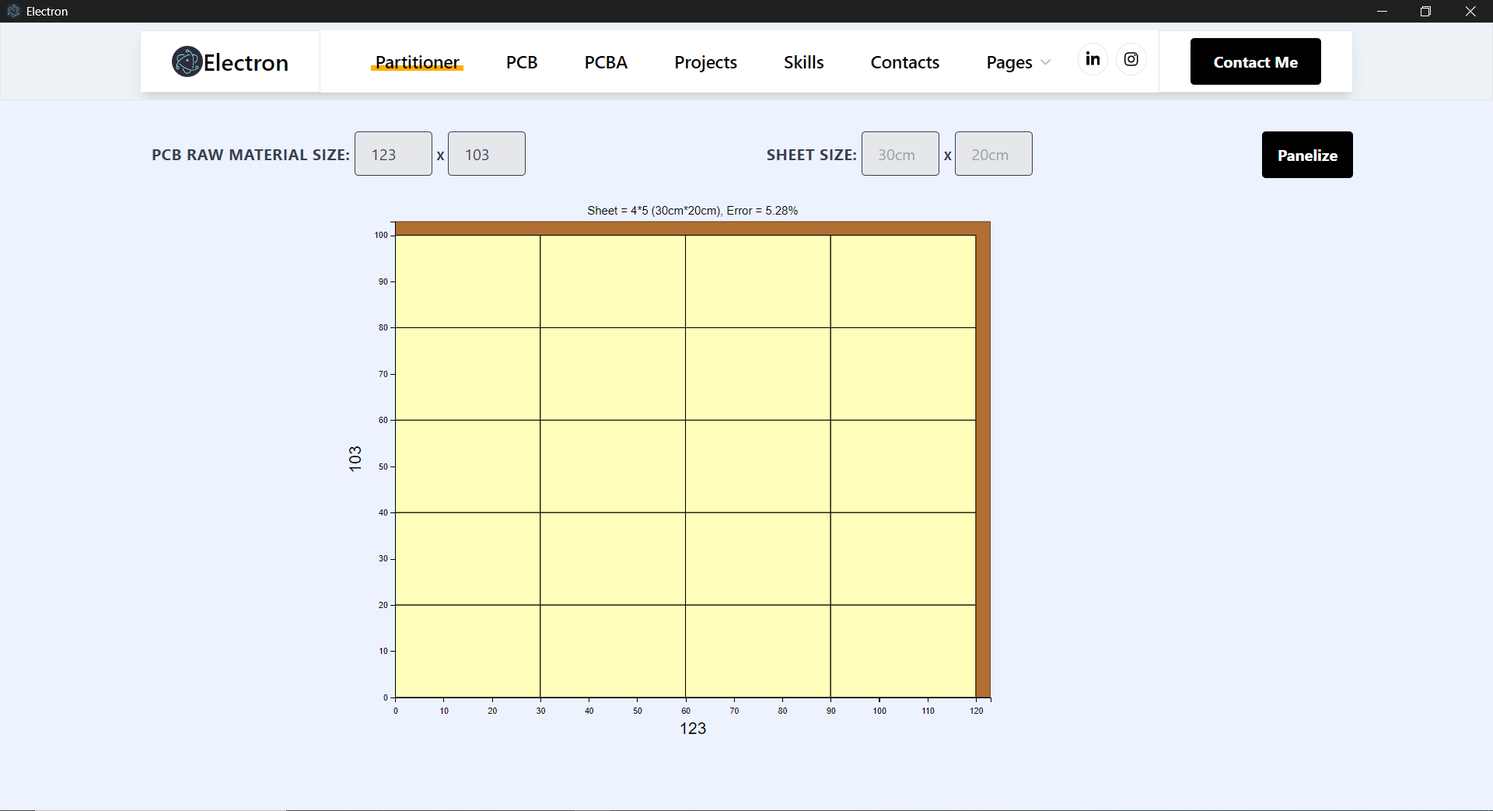
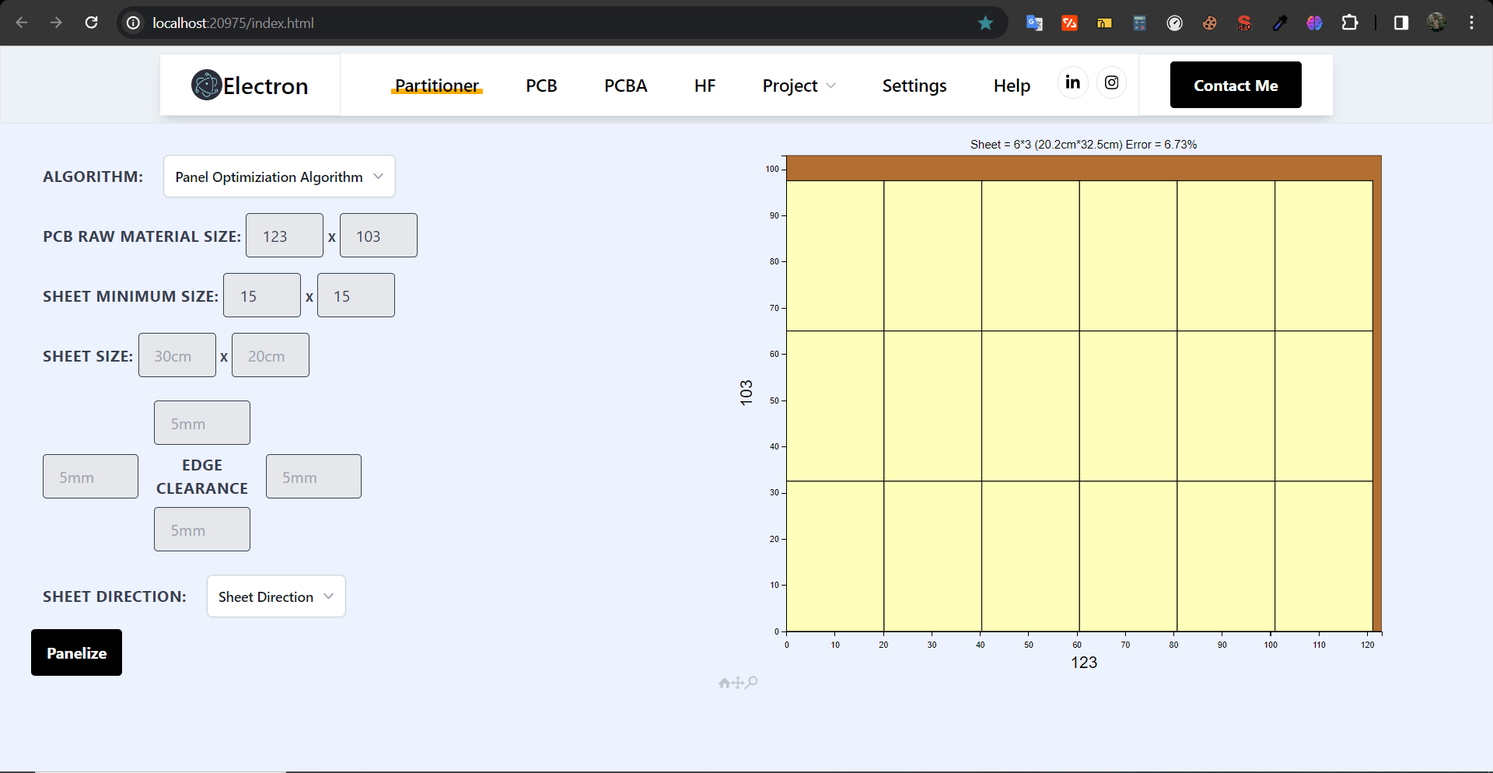
Change Readme for V011

diff --git a/eel/figure.html b/eel/figure.html
@@ -4,7 +4,7 @@
 
 </style>
 
-<div id="fig_el266815749730687526514138437"></div>
+<div id="fig_el422823026730818089411089649"></div>
 <script>
 function mpld3_load_lib(url, callback){
   var s = document.createElement('script');
@@ -19,7 +19,7 @@ if(typeof(mpld3) !== "undefined" && mpld3._mpld3IsLoaded){
    // already loaded: just create the figure
    !function(mpld3){
        
-       mpld3.draw_figure("fig_el266815749730687526514138437", {"width": 819.9999999999999, "height": 686.6666666666666, "axes": [{"bbox": [0.10323509485094853, 0.10525889967637547, 0.878472222222222, 0.8389158576051781], "xlim": [0.0, 123.0], "ylim": [0.0, 103.0], "xdomain": [0.0, 123.0], "ydomain": [0.0, 103.0], "xscale": "linear", "yscale": "linear", "axes": [{"position": "bottom", "nticks": 8, "tickvalues": null, "tickformat_formatter": "", "tickformat": null, "scale": "linear", "fontsize": 10.0, "grid": {"gridOn": false}, "visible": true}, {"position": "left", "nticks": 7, "tickvalues": null, "tickformat_formatter": "", "tickformat": null, "scale": "linear", "fontsize": 10.0, "grid": {"gridOn": false}, "visible": true}], "axesbg": "#FFFFFF", "axesbgalpha": null, "zoomable": true, "id": "el26681574975942720", "lines": [], "paths": [{"data": "data01", "xindex": 0, "yindex": 1, "coordinates": "data", "pathcodes": ["M", "L", "L", "L", "Z"], "id": "el26681574976082592", "dasharray": "none", "alpha": 1, "facecolor": "#B26F31", "edgecolor": "#000000", "edgewidth": 1.0, "zorder": 1}, {"data": "data02", "xindex": 0, "yindex": 1, "coordinates": "data", "pathcodes": ["M", "L", "L", "L", "Z"], "id": "el26681575014377472", "dasharray": "none", "alpha": 1, "facecolor": "#FFFFBB", "edgecolor": "#000000", "edgewidth": 1.0, "zorder": 1}, {"data": "data02", "xindex": 0, "yindex": 2, "coordinates": "data", "pathcodes": ["M", "L", "L", "L", "Z"], "id": "el26681575014377952", "dasharray": "none", "alpha": 1, "facecolor": "#FFFFBB", "edgecolor": "#000000", "edgewidth": 1.0, "zorder": 1}, {"data": "data02", "xindex": 0, "yindex": 3, "coordinates": "data", "pathcodes": ["M", "L", "L", "L", "Z"], "id": "el26681575014378432", "dasharray": "none", "alpha": 1, "facecolor": "#FFFFBB", "edgecolor": "#000000", "edgewidth": 1.0, "zorder": 1}, {"data": "data02", "xindex": 4, "yindex": 1, "coordinates": "data", "pathcodes": ["M", "L", "L", "L", "Z"], "id": "el26681575014378912", "dasharray": "none", "alpha": 1, "facecolor": "#FFFFBB", "edgecolor": "#000000", "edgewidth": 1.0, "zorder": 1}, {"data": "data02", "xindex": 4, "yindex": 2, "coordinates": "data", "pathcodes": ["M", "L", "L", "L", "Z"], "id": "el26681575014379392", "dasharray": "none", "alpha": 1, "facecolor": "#FFFFBB", "edgecolor": "#000000", "edgewidth": 1.0, "zorder": 1}, {"data": "data02", "xindex": 4, "yindex": 3, "coordinates": "data", "pathcodes": ["M", "L", "L", "L", "Z"], "id": "el26681575014379920", "dasharray": "none", "alpha": 1, "facecolor": "#FFFFBB", "edgecolor": "#000000", "edgewidth": 1.0, "zorder": 1}, {"data": "data02", "xindex": 5, "yindex": 1, "coordinates": "data", "pathcodes": ["M", "L", "L", "L", "Z"], "id": "el26681575014380400", "dasharray": "none", "alpha": 1, "facecolor": "#FFFFBB", "edgecolor": "#000000", "edgewidth": 1.0, "zorder": 1}, {"data": "data02", "xindex": 5, "yindex": 2, "coordinates": "data", "pathcodes": ["M", "L", "L", "L", "Z"], "id": "el26681575014380880", "dasharray": "none", "alpha": 1, "facecolor": "#FFFFBB", "edgecolor": "#000000", "edgewidth": 1.0, "zorder": 1}, {"data": "data02", "xindex": 5, "yindex": 3, "coordinates": "data", "pathcodes": ["M", "L", "L", "L", "Z"], "id": "el26681575014381360", "dasharray": "none", "alpha": 1, "facecolor": "#FFFFBB", "edgecolor": "#000000", "edgewidth": 1.0, "zorder": 1}, {"data": "data02", "xindex": 6, "yindex": 1, "coordinates": "data", "pathcodes": ["M", "L", "L", "L", "Z"], "id": "el26681575014381840", "dasharray": "none", "alpha": 1, "facecolor": "#FFFFBB", "edgecolor": "#000000", "edgewidth": 1.0, "zorder": 1}, {"data": "data02", "xindex": 6, "yindex": 2, "coordinates": "data", "pathcodes": ["M", "L", "L", "L", "Z"], "id": "el26681575014382320", "dasharray": "none", "alpha": 1, "facecolor": "#FFFFBB", "edgecolor": "#000000", "edgewidth": 1.0, "zorder": 1}, {"data": "data02", "xindex": 6, "yindex": 3, "coordinates": "data", "pathcodes": ["M", "L", "L", "L", "Z"], "id": "el26681575014382800", "dasharray": "none", "alpha": 1, "facecolor": "#FFFFBB", "edgecolor": "#000000", "edgewidth": 1.0, "zorder": 1}, {"data": "data02", "xindex": 7, "yindex": 1, "coordinates": "data", "pathcodes": ["M", "L", "L", "L", "Z"], "id": "el26681575014383280", "dasharray": "none", "alpha": 1, "facecolor": "#FFFFBB", "edgecolor": "#000000", "edgewidth": 1.0, "zorder": 1}, {"data": "data02", "xindex": 7, "yindex": 2, "coordinates": "data", "pathcodes": ["M", "L", "L", "L", "Z"], "id": "el26681575014383520", "dasharray": "none", "alpha": 1, "facecolor": "#FFFFBB", "edgecolor": "#000000", "edgewidth": 1.0, "zorder": 1}, {"data": "data02", "xindex": 7, "yindex": 3, "coordinates": "data", "pathcodes": ["M", "L", "L", "L", "Z"], "id": "el26681575050576560", "dasharray": "none", "alpha": 1, "facecolor": "#FFFFBB", "edgecolor": "#000000", "edgewidth": 1.0, "zorder": 1}], "markers": [], "texts": [{"text": "123", "position": [0.5, -0.05082457324717908], "coordinates": "axes", "h_anchor": "middle", "v_baseline": "hanging", "rotation": -0.0, "fontsize": 20.0, "color": "#000000", "alpha": 1, "zorder": 3, "id": "el26681574976087776"}, {"text": "103", "position": [-0.05782319483273888, 0.5], "coordinates": "axes", "h_anchor": "middle", "v_baseline": "auto", "rotation": -90.0, "fontsize": 20.0, "color": "#000000", "alpha": 1, "zorder": 3, "id": "el26681574976086912"}, {"text": "Sheet = 5*3 (24cm*34cm)___ Error = 3.39%", "position": [0.5, 1.0144661973189315], "coordinates": "axes", "h_anchor": "middle", "v_baseline": "auto", "rotation": -0.0, "fontsize": 14.0, "color": "#000000", "alpha": 1, "zorder": 3, "id": "el26681575014367296"}], "collections": [], "images": [], "sharex": [], "sharey": []}], "data": {"data01": [[0.0, 0.0], [123.0, 0.0], [123.0, 103.0], [0.0, 103.0]], "data02": [[0.0, 0.0, 34.0, 68.0, 24.0, 48.0, 72.0, 96.0], [24.0, 0.0, 34.0, 68.0, 48.0, 72.0, 96.0, 120.0], [24.0, 34.0, 68.0, 102.0, 48.0, 72.0, 96.0, 120.0], [0.0, 34.0, 68.0, 102.0, 24.0, 48.0, 72.0, 96.0]]}, "id": "el26681574973068752", "plugins": [{"type": "reset"}, {"type": "zoom", "button": true, "enabled": false}, {"type": "boxzoom", "button": true, "enabled": false}]});
+       mpld3.draw_figure("fig_el422823026730818089411089649", {"width": 819.9999999999999, "height": 686.6666666666666, "axes": [{"bbox": [0.10323509485094853, 0.10525889967637547, 0.8784722222222222, 0.8389158576051778], "xlim": [0.0, 123.0], "ylim": [0.0, 103.0], "xdomain": [0.0, 123.0], "ydomain": [0.0, 103.0], "xscale": "linear", "yscale": "linear", "axes": [{"position": "bottom", "nticks": 8, "tickvalues": null, "tickformat_formatter": "", "tickformat": null, "scale": "linear", "fontsize": 10.0, "grid": {"gridOn": false}, "visible": true}, {"position": "left", "nticks": 7, "tickvalues": null, "tickformat_formatter": "", "tickformat": null, "scale": "linear", "fontsize": 10.0, "grid": {"gridOn": false}, "visible": true}], "axesbg": "#FFFFFF", "axesbgalpha": null, "zoomable": true, "id": "el42282302675598736", "lines": [], "paths": [{"data": "data01", "xindex": 0, "yindex": 1, "coordinates": "data", "pathcodes": ["M", "L", "L", "L", "Z"], "id": "el42282302675641360", "dasharray": "none", "alpha": 1, "facecolor": "#B26F31", "edgecolor": "#000000", "edgewidth": 1.0, "zorder": 1}, {"data": "data02", "xindex": 0, "yindex": 1, "coordinates": "data", "pathcodes": ["M", "L", "L", "L", "Z"], "id": "el42282302713007600", "dasharray": "none", "alpha": 1, "facecolor": "#FFFFBB", "edgecolor": "#000000", "edgewidth": 1.0, "zorder": 1}, {"data": "data02", "xindex": 0, "yindex": 2, "coordinates": "data", "pathcodes": ["M", "L", "L", "L", "Z"], "id": "el42282302713008080", "dasharray": "none", "alpha": 1, "facecolor": "#FFFFBB", "edgecolor": "#000000", "edgewidth": 1.0, "zorder": 1}, {"data": "data02", "xindex": 0, "yindex": 3, "coordinates": "data", "pathcodes": ["M", "L", "L", "L", "Z"], "id": "el42282302713008560", "dasharray": "none", "alpha": 1, "facecolor": "#FFFFBB", "edgecolor": "#000000", "edgewidth": 1.0, "zorder": 1}, {"data": "data02", "xindex": 4, "yindex": 1, "coordinates": "data", "pathcodes": ["M", "L", "L", "L", "Z"], "id": "el42282302713009040", "dasharray": "none", "alpha": 1, "facecolor": "#FFFFBB", "edgecolor": "#000000", "edgewidth": 1.0, "zorder": 1}, {"data": "data02", "xindex": 4, "yindex": 2, "coordinates": "data", "pathcodes": ["M", "L", "L", "L", "Z"], "id": "el42282302713009520", "dasharray": "none", "alpha": 1, "facecolor": "#FFFFBB", "edgecolor": "#000000", "edgewidth": 1.0, "zorder": 1}, {"data": "data02", "xindex": 4, "yindex": 3, "coordinates": "data", "pathcodes": ["M", "L", "L", "L", "Z"], "id": "el42282302713010000", "dasharray": "none", "alpha": 1, "facecolor": "#FFFFBB", "edgecolor": "#000000", "edgewidth": 1.0, "zorder": 1}, {"data": "data02", "xindex": 5, "yindex": 1, "coordinates": "data", "pathcodes": ["M", "L", "L", "L", "Z"], "id": "el42282302713010480", "dasharray": "none", "alpha": 1, "facecolor": "#FFFFBB", "edgecolor": "#000000", "edgewidth": 1.0, "zorder": 1}, {"data": "data02", "xindex": 5, "yindex": 2, "coordinates": "data", "pathcodes": ["M", "L", "L", "L", "Z"], "id": "el42282302713010960", "dasharray": "none", "alpha": 1, "facecolor": "#FFFFBB", "edgecolor": "#000000", "edgewidth": 1.0, "zorder": 1}, {"data": "data02", "xindex": 5, "yindex": 3, "coordinates": "data", "pathcodes": ["M", "L", "L", "L", "Z"], "id": "el42282302713011440", "dasharray": "none", "alpha": 1, "facecolor": "#FFFFBB", "edgecolor": "#000000", "edgewidth": 1.0, "zorder": 1}, {"data": "data02", "xindex": 6, "yindex": 1, "coordinates": "data", "pathcodes": ["M", "L", "L", "L", "Z"], "id": "el42282302713011920", "dasharray": "none", "alpha": 1, "facecolor": "#FFFFBB", "edgecolor": "#000000", "edgewidth": 1.0, "zorder": 1}, {"data": "data02", "xindex": 6, "yindex": 2, "coordinates": "data", "pathcodes": ["M", "L", "L", "L", "Z"], "id": "el42282302713012400", "dasharray": "none", "alpha": 1, "facecolor": "#FFFFBB", "edgecolor": "#000000", "edgewidth": 1.0, "zorder": 1}, {"data": "data02", "xindex": 6, "yindex": 3, "coordinates": "data", "pathcodes": ["M", "L", "L", "L", "Z"], "id": "el42282302713012880", "dasharray": "none", "alpha": 1, "facecolor": "#FFFFBB", "edgecolor": "#000000", "edgewidth": 1.0, "zorder": 1}, {"data": "data02", "xindex": 7, "yindex": 1, "coordinates": "data", "pathcodes": ["M", "L", "L", "L", "Z"], "id": "el42282302713013360", "dasharray": "none", "alpha": 1, "facecolor": "#FFFFBB", "edgecolor": "#000000", "edgewidth": 1.0, "zorder": 1}, {"data": "data02", "xindex": 7, "yindex": 2, "coordinates": "data", "pathcodes": ["M", "L", "L", "L", "Z"], "id": "el42282302713013840", "dasharray": "none", "alpha": 1, "facecolor": "#FFFFBB", "edgecolor": "#000000", "edgewidth": 1.0, "zorder": 1}, {"data": "data02", "xindex": 7, "yindex": 3, "coordinates": "data", "pathcodes": ["M", "L", "L", "L", "Z"], "id": "el42282302713014320", "dasharray": "none", "alpha": 1, "facecolor": "#FFFFBB", "edgecolor": "#000000", "edgewidth": 1.0, "zorder": 1}], "markers": [], "texts": [{"text": "123", "position": [0.5, -0.050824573247179095], "coordinates": "axes", "h_anchor": "middle", "v_baseline": "hanging", "rotation": -0.0, "fontsize": 20.0, "color": "#000000", "alpha": 1, "zorder": 3, "id": "el42282302675634016"}, {"text": "103", "position": [-0.05782319483273887, 0.5], "coordinates": "axes", "h_anchor": "middle", "v_baseline": "auto", "rotation": -90.0, "fontsize": 20.0, "color": "#000000", "alpha": 1, "zorder": 3, "id": "el42282302675635024"}, {"text": "#Sheet = 5*3 (21cm*31cm)___ #Error = 22.92%", "position": [0.5, 1.0144661973189315], "coordinates": "axes", "h_anchor": "middle", "v_baseline": "auto", "rotation": -0.0, "fontsize": 14.0, "color": "#000000", "alpha": 1, "zorder": 3, "id": "el42282302675642992"}], "collections": [], "images": [], "sharex": [], "sharey": []}], "data": {"data01": [[0.0, 0.0], [123.0, 0.0], [123.0, 103.0], [0.0, 103.0]], "data02": [[0.0, 0.0, 31.0, 62.0, 21.0, 42.0, 63.0, 84.0], [21.0, 0.0, 31.0, 62.0, 42.0, 63.0, 84.0, 105.0], [21.0, 31.0, 62.0, 93.0, 42.0, 63.0, 84.0, 105.0], [0.0, 31.0, 62.0, 93.0, 21.0, 42.0, 63.0, 84.0]]}, "id": "el42282302673081808", "plugins": [{"type": "reset"}, {"type": "zoom", "button": true, "enabled": false}, {"type": "boxzoom", "button": true, "enabled": false}]});
    }(mpld3);
 }else if(typeof define === "function" && define.amd){
    // require.js is available: use it to load d3/mpld3
@@ -28,7 +28,7 @@ if(typeof(mpld3) !== "undefined" && mpld3._mpld3IsLoaded){
       window.d3 = d3;
       mpld3_load_lib("https://mpld3.github.io/js/mpld3.v0.5.9.js", function(){
          
-         mpld3.draw_figure("fig_el266815749730687526514138437", {"width": 819.9999999999999, "height": 686.6666666666666, "axes": [{"bbox": [0.10323509485094853, 0.10525889967637547, 0.878472222222222, 0.8389158576051781], "xlim": [0.0, 123.0], "ylim": [0.0, 103.0], "xdomain": [0.0, 123.0], "ydomain": [0.0, 103.0], "xscale": "linear", "yscale": "linear", "axes": [{"position": "bottom", "nticks": 8, "tickvalues": null, "tickformat_formatter": "", "tickformat": null, "scale": "linear", "fontsize": 10.0, "grid": {"gridOn": false}, "visible": true}, {"position": "left", "nticks": 7, "tickvalues": null, "tickformat_formatter": "", "tickformat": null, "scale": "linear", "fontsize": 10.0, "grid": {"gridOn": false}, "visible": true}], "axesbg": "#FFFFFF", "axesbgalpha": null, "zoomable": true, "id": "el26681574975942720", "lines": [], "paths": [{"data": "data01", "xindex": 0, "yindex": 1, "coordinates": "data", "pathcodes": ["M", "L", "L", "L", "Z"], "id": "el26681574976082592", "dasharray": "none", "alpha": 1, "facecolor": "#B26F31", "edgecolor": "#000000", "edgewidth": 1.0, "zorder": 1}, {"data": "data02", "xindex": 0, "yindex": 1, "coordinates": "data", "pathcodes": ["M", "L", "L", "L", "Z"], "id": "el26681575014377472", "dasharray": "none", "alpha": 1, "facecolor": "#FFFFBB", "edgecolor": "#000000", "edgewidth": 1.0, "zorder": 1}, {"data": "data02", "xindex": 0, "yindex": 2, "coordinates": "data", "pathcodes": ["M", "L", "L", "L", "Z"], "id": "el26681575014377952", "dasharray": "none", "alpha": 1, "facecolor": "#FFFFBB", "edgecolor": "#000000", "edgewidth": 1.0, "zorder": 1}, {"data": "data02", "xindex": 0, "yindex": 3, "coordinates": "data", "pathcodes": ["M", "L", "L", "L", "Z"], "id": "el26681575014378432", "dasharray": "none", "alpha": 1, "facecolor": "#FFFFBB", "edgecolor": "#000000", "edgewidth": 1.0, "zorder": 1}, {"data": "data02", "xindex": 4, "yindex": 1, "coordinates": "data", "pathcodes": ["M", "L", "L", "L", "Z"], "id": "el26681575014378912", "dasharray": "none", "alpha": 1, "facecolor": "#FFFFBB", "edgecolor": "#000000", "edgewidth": 1.0, "zorder": 1}, {"data": "data02", "xindex": 4, "yindex": 2, "coordinates": "data", "pathcodes": ["M", "L", "L", "L", "Z"], "id": "el26681575014379392", "dasharray": "none", "alpha": 1, "facecolor": "#FFFFBB", "edgecolor": "#000000", "edgewidth": 1.0, "zorder": 1}, {"data": "data02", "xindex": 4, "yindex": 3, "coordinates": "data", "pathcodes": ["M", "L", "L", "L", "Z"], "id": "el26681575014379920", "dasharray": "none", "alpha": 1, "facecolor": "#FFFFBB", "edgecolor": "#000000", "edgewidth": 1.0, "zorder": 1}, {"data": "data02", "xindex": 5, "yindex": 1, "coordinates": "data", "pathcodes": ["M", "L", "L", "L", "Z"], "id": "el26681575014380400", "dasharray": "none", "alpha": 1, "facecolor": "#FFFFBB", "edgecolor": "#000000", "edgewidth": 1.0, "zorder": 1}, {"data": "data02", "xindex": 5, "yindex": 2, "coordinates": "data", "pathcodes": ["M", "L", "L", "L", "Z"], "id": "el26681575014380880", "dasharray": "none", "alpha": 1, "facecolor": "#FFFFBB", "edgecolor": "#000000", "edgewidth": 1.0, "zorder": 1}, {"data": "data02", "xindex": 5, "yindex": 3, "coordinates": "data", "pathcodes": ["M", "L", "L", "L", "Z"], "id": "el26681575014381360", "dasharray": "none", "alpha": 1, "facecolor": "#FFFFBB", "edgecolor": "#000000", "edgewidth": 1.0, "zorder": 1}, {"data": "data02", "xindex": 6, "yindex": 1, "coordinates": "data", "pathcodes": ["M", "L", "L", "L", "Z"], "id": "el26681575014381840", "dasharray": "none", "alpha": 1, "facecolor": "#FFFFBB", "edgecolor": "#000000", "edgewidth": 1.0, "zorder": 1}, {"data": "data02", "xindex": 6, "yindex": 2, "coordinates": "data", "pathcodes": ["M", "L", "L", "L", "Z"], "id": "el26681575014382320", "dasharray": "none", "alpha": 1, "facecolor": "#FFFFBB", "edgecolor": "#000000", "edgewidth": 1.0, "zorder": 1}, {"data": "data02", "xindex": 6, "yindex": 3, "coordinates": "data", "pathcodes": ["M", "L", "L", "L", "Z"], "id": "el26681575014382800", "dasharray": "none", "alpha": 1, "facecolor": "#FFFFBB", "edgecolor": "#000000", "edgewidth": 1.0, "zorder": 1}, {"data": "data02", "xindex": 7, "yindex": 1, "coordinates": "data", "pathcodes": ["M", "L", "L", "L", "Z"], "id": "el26681575014383280", "dasharray": "none", "alpha": 1, "facecolor": "#FFFFBB", "edgecolor": "#000000", "edgewidth": 1.0, "zorder": 1}, {"data": "data02", "xindex": 7, "yindex": 2, "coordinates": "data", "pathcodes": ["M", "L", "L", "L", "Z"], "id": "el26681575014383520", "dasharray": "none", "alpha": 1, "facecolor": "#FFFFBB", "edgecolor": "#000000", "edgewidth": 1.0, "zorder": 1}, {"data": "data02", "xindex": 7, "yindex": 3, "coordinates": "data", "pathcodes": ["M", "L", "L", "L", "Z"], "id": "el26681575050576560", "dasharray": "none", "alpha": 1, "facecolor": "#FFFFBB", "edgecolor": "#000000", "edgewidth": 1.0, "zorder": 1}], "markers": [], "texts": [{"text": "123", "position": [0.5, -0.05082457324717908], "coordinates": "axes", "h_anchor": "middle", "v_baseline": "hanging", "rotation": -0.0, "fontsize": 20.0, "color": "#000000", "alpha": 1, "zorder": 3, "id": "el26681574976087776"}, {"text": "103", "position": [-0.05782319483273888, 0.5], "coordinates": "axes", "h_anchor": "middle", "v_baseline": "auto", "rotation": -90.0, "fontsize": 20.0, "color": "#000000", "alpha": 1, "zorder": 3, "id": "el26681574976086912"}, {"text": "Sheet = 5*3 (24cm*34cm)___ Error = 3.39%", "position": [0.5, 1.0144661973189315], "coordinates": "axes", "h_anchor": "middle", "v_baseline": "auto", "rotation": -0.0, "fontsize": 14.0, "color": "#000000", "alpha": 1, "zorder": 3, "id": "el26681575014367296"}], "collections": [], "images": [], "sharex": [], "sharey": []}], "data": {"data01": [[0.0, 0.0], [123.0, 0.0], [123.0, 103.0], [0.0, 103.0]], "data02": [[0.0, 0.0, 34.0, 68.0, 24.0, 48.0, 72.0, 96.0], [24.0, 0.0, 34.0, 68.0, 48.0, 72.0, 96.0, 120.0], [24.0, 34.0, 68.0, 102.0, 48.0, 72.0, 96.0, 120.0], [0.0, 34.0, 68.0, 102.0, 24.0, 48.0, 72.0, 96.0]]}, "id": "el26681574973068752", "plugins": [{"type": "reset"}, {"type": "zoom", "button": true, "enabled": false}, {"type": "boxzoom", "button": true, "enabled": false}]});
+         mpld3.draw_figure("fig_el422823026730818089411089649", {"width": 819.9999999999999, "height": 686.6666666666666, "axes": [{"bbox": [0.10323509485094853, 0.10525889967637547, 0.8784722222222222, 0.8389158576051778], "xlim": [0.0, 123.0], "ylim": [0.0, 103.0], "xdomain": [0.0, 123.0], "ydomain": [0.0, 103.0], "xscale": "linear", "yscale": "linear", "axes": [{"position": "bottom", "nticks": 8, "tickvalues": null, "tickformat_formatter": "", "tickformat": null, "scale": "linear", "fontsize": 10.0, "grid": {"gridOn": false}, "visible": true}, {"position": "left", "nticks": 7, "tickvalues": null, "tickformat_formatter": "", "tickformat": null, "scale": "linear", "fontsize": 10.0, "grid": {"gridOn": false}, "visible": true}], "axesbg": "#FFFFFF", "axesbgalpha": null, "zoomable": true, "id": "el42282302675598736", "lines": [], "paths": [{"data": "data01", "xindex": 0, "yindex": 1, "coordinates": "data", "pathcodes": ["M", "L", "L", "L", "Z"], "id": "el42282302675641360", "dasharray": "none", "alpha": 1, "facecolor": "#B26F31", "edgecolor": "#000000", "edgewidth": 1.0, "zorder": 1}, {"data": "data02", "xindex": 0, "yindex": 1, "coordinates": "data", "pathcodes": ["M", "L", "L", "L", "Z"], "id": "el42282302713007600", "dasharray": "none", "alpha": 1, "facecolor": "#FFFFBB", "edgecolor": "#000000", "edgewidth": 1.0, "zorder": 1}, {"data": "data02", "xindex": 0, "yindex": 2, "coordinates": "data", "pathcodes": ["M", "L", "L", "L", "Z"], "id": "el42282302713008080", "dasharray": "none", "alpha": 1, "facecolor": "#FFFFBB", "edgecolor": "#000000", "edgewidth": 1.0, "zorder": 1}, {"data": "data02", "xindex": 0, "yindex": 3, "coordinates": "data", "pathcodes": ["M", "L", "L", "L", "Z"], "id": "el42282302713008560", "dasharray": "none", "alpha": 1, "facecolor": "#FFFFBB", "edgecolor": "#000000", "edgewidth": 1.0, "zorder": 1}, {"data": "data02", "xindex": 4, "yindex": 1, "coordinates": "data", "pathcodes": ["M", "L", "L", "L", "Z"], "id": "el42282302713009040", "dasharray": "none", "alpha": 1, "facecolor": "#FFFFBB", "edgecolor": "#000000", "edgewidth": 1.0, "zorder": 1}, {"data": "data02", "xindex": 4, "yindex": 2, "coordinates": "data", "pathcodes": ["M", "L", "L", "L", "Z"], "id": "el42282302713009520", "dasharray": "none", "alpha": 1, "facecolor": "#FFFFBB", "edgecolor": "#000000", "edgewidth": 1.0, "zorder": 1}, {"data": "data02", "xindex": 4, "yindex": 3, "coordinates": "data", "pathcodes": ["M", "L", "L", "L", "Z"], "id": "el42282302713010000", "dasharray": "none", "alpha": 1, "facecolor": "#FFFFBB", "edgecolor": "#000000", "edgewidth": 1.0, "zorder": 1}, {"data": "data02", "xindex": 5, "yindex": 1, "coordinates": "data", "pathcodes": ["M", "L", "L", "L", "Z"], "id": "el42282302713010480", "dasharray": "none", "alpha": 1, "facecolor": "#FFFFBB", "edgecolor": "#000000", "edgewidth": 1.0, "zorder": 1}, {"data": "data02", "xindex": 5, "yindex": 2, "coordinates": "data", "pathcodes": ["M", "L", "L", "L", "Z"], "id": "el42282302713010960", "dasharray": "none", "alpha": 1, "facecolor": "#FFFFBB", "edgecolor": "#000000", "edgewidth": 1.0, "zorder": 1}, {"data": "data02", "xindex": 5, "yindex": 3, "coordinates": "data", "pathcodes": ["M", "L", "L", "L", "Z"], "id": "el42282302713011440", "dasharray": "none", "alpha": 1, "facecolor": "#FFFFBB", "edgecolor": "#000000", "edgewidth": 1.0, "zorder": 1}, {"data": "data02", "xindex": 6, "yindex": 1, "coordinates": "data", "pathcodes": ["M", "L", "L", "L", "Z"], "id": "el42282302713011920", "dasharray": "none", "alpha": 1, "facecolor": "#FFFFBB", "edgecolor": "#000000", "edgewidth": 1.0, "zorder": 1}, {"data": "data02", "xindex": 6, "yindex": 2, "coordinates": "data", "pathcodes": ["M", "L", "L", "L", "Z"], "id": "el42282302713012400", "dasharray": "none", "alpha": 1, "facecolor": "#FFFFBB", "edgecolor": "#000000", "edgewidth": 1.0, "zorder": 1}, {"data": "data02", "xindex": 6, "yindex": 3, "coordinates": "data", "pathcodes": ["M", "L", "L", "L", "Z"], "id": "el42282302713012880", "dasharray": "none", "alpha": 1, "facecolor": "#FFFFBB", "edgecolor": "#000000", "edgewidth": 1.0, "zorder": 1}, {"data": "data02", "xindex": 7, "yindex": 1, "coordinates": "data", "pathcodes": ["M", "L", "L", "L", "Z"], "id": "el42282302713013360", "dasharray": "none", "alpha": 1, "facecolor": "#FFFFBB", "edgecolor": "#000000", "edgewidth": 1.0, "zorder": 1}, {"data": "data02", "xindex": 7, "yindex": 2, "coordinates": "data", "pathcodes": ["M", "L", "L", "L", "Z"], "id": "el42282302713013840", "dasharray": "none", "alpha": 1, "facecolor": "#FFFFBB", "edgecolor": "#000000", "edgewidth": 1.0, "zorder": 1}, {"data": "data02", "xindex": 7, "yindex": 3, "coordinates": "data", "pathcodes": ["M", "L", "L", "L", "Z"], "id": "el42282302713014320", "dasharray": "none", "alpha": 1, "facecolor": "#FFFFBB", "edgecolor": "#000000", "edgewidth": 1.0, "zorder": 1}], "markers": [], "texts": [{"text": "123", "position": [0.5, -0.050824573247179095], "coordinates": "axes", "h_anchor": "middle", "v_baseline": "hanging", "rotation": -0.0, "fontsize": 20.0, "color": "#000000", "alpha": 1, "zorder": 3, "id": "el42282302675634016"}, {"text": "103", "position": [-0.05782319483273887, 0.5], "coordinates": "axes", "h_anchor": "middle", "v_baseline": "auto", "rotation": -90.0, "fontsize": 20.0, "color": "#000000", "alpha": 1, "zorder": 3, "id": "el42282302675635024"}, {"text": "#Sheet = 5*3 (21cm*31cm)___ #Error = 22.92%", "position": [0.5, 1.0144661973189315], "coordinates": "axes", "h_anchor": "middle", "v_baseline": "auto", "rotation": -0.0, "fontsize": 14.0, "color": "#000000", "alpha": 1, "zorder": 3, "id": "el42282302675642992"}], "collections": [], "images": [], "sharex": [], "sharey": []}], "data": {"data01": [[0.0, 0.0], [123.0, 0.0], [123.0, 103.0], [0.0, 103.0]], "data02": [[0.0, 0.0, 31.0, 62.0, 21.0, 42.0, 63.0, 84.0], [21.0, 0.0, 31.0, 62.0, 42.0, 63.0, 84.0, 105.0], [21.0, 31.0, 62.0, 93.0, 42.0, 63.0, 84.0, 105.0], [0.0, 31.0, 62.0, 93.0, 21.0, 42.0, 63.0, 84.0]]}, "id": "el42282302673081808", "plugins": [{"type": "reset"}, {"type": "zoom", "button": true, "enabled": false}, {"type": "boxzoom", "button": true, "enabled": false}]});
       });
     });
 }else{
@@ -36,7 +36,7 @@ if(typeof(mpld3) !== "undefined" && mpld3._mpld3IsLoaded){
     mpld3_load_lib("https://d3js.org/d3.v5.js", function(){
          mpld3_load_lib("https://mpld3.github.io/js/mpld3.v0.5.9.js", function(){
                  
-                 mpld3.draw_figure("fig_el266815749730687526514138437", {"width": 819.9999999999999, "height": 686.6666666666666, "axes": [{"bbox": [0.10323509485094853, 0.10525889967637547, 0.878472222222222, 0.8389158576051781], "xlim": [0.0, 123.0], "ylim": [0.0, 103.0], "xdomain": [0.0, 123.0], "ydomain": [0.0, 103.0], "xscale": "linear", "yscale": "linear", "axes": [{"position": "bottom", "nticks": 8, "tickvalues": null, "tickformat_formatter": "", "tickformat": null, "scale": "linear", "fontsize": 10.0, "grid": {"gridOn": false}, "visible": true}, {"position": "left", "nticks": 7, "tickvalues": null, "tickformat_formatter": "", "tickformat": null, "scale": "linear", "fontsize": 10.0, "grid": {"gridOn": false}, "visible": true}], "axesbg": "#FFFFFF", "axesbgalpha": null, "zoomable": true, "id": "el26681574975942720", "lines": [], "paths": [{"data": "data01", "xindex": 0, "yindex": 1, "coordinates": "data", "pathcodes": ["M", "L", "L", "L", "Z"], "id": "el26681574976082592", "dasharray": "none", "alpha": 1, "facecolor": "#B26F31", "edgecolor": "#000000", "edgewidth": 1.0, "zorder": 1}, {"data": "data02", "xindex": 0, "yindex": 1, "coordinates": "data", "pathcodes": ["M", "L", "L", "L", "Z"], "id": "el26681575014377472", "dasharray": "none", "alpha": 1, "facecolor": "#FFFFBB", "edgecolor": "#000000", "edgewidth": 1.0, "zorder": 1}, {"data": "data02", "xindex": 0, "yindex": 2, "coordinates": "data", "pathcodes": ["M", "L", "L", "L", "Z"], "id": "el26681575014377952", "dasharray": "none", "alpha": 1, "facecolor": "#FFFFBB", "edgecolor": "#000000", "edgewidth": 1.0, "zorder": 1}, {"data": "data02", "xindex": 0, "yindex": 3, "coordinates": "data", "pathcodes": ["M", "L", "L", "L", "Z"], "id": "el26681575014378432", "dasharray": "none", "alpha": 1, "facecolor": "#FFFFBB", "edgecolor": "#000000", "edgewidth": 1.0, "zorder": 1}, {"data": "data02", "xindex": 4, "yindex": 1, "coordinates": "data", "pathcodes": ["M", "L", "L", "L", "Z"], "id": "el26681575014378912", "dasharray": "none", "alpha": 1, "facecolor": "#FFFFBB", "edgecolor": "#000000", "edgewidth": 1.0, "zorder": 1}, {"data": "data02", "xindex": 4, "yindex": 2, "coordinates": "data", "pathcodes": ["M", "L", "L", "L", "Z"], "id": "el26681575014379392", "dasharray": "none", "alpha": 1, "facecolor": "#FFFFBB", "edgecolor": "#000000", "edgewidth": 1.0, "zorder": 1}, {"data": "data02", "xindex": 4, "yindex": 3, "coordinates": "data", "pathcodes": ["M", "L", "L", "L", "Z"], "id": "el26681575014379920", "dasharray": "none", "alpha": 1, "facecolor": "#FFFFBB", "edgecolor": "#000000", "edgewidth": 1.0, "zorder": 1}, {"data": "data02", "xindex": 5, "yindex": 1, "coordinates": "data", "pathcodes": ["M", "L", "L", "L", "Z"], "id": "el26681575014380400", "dasharray": "none", "alpha": 1, "facecolor": "#FFFFBB", "edgecolor": "#000000", "edgewidth": 1.0, "zorder": 1}, {"data": "data02", "xindex": 5, "yindex": 2, "coordinates": "data", "pathcodes": ["M", "L", "L", "L", "Z"], "id": "el26681575014380880", "dasharray": "none", "alpha": 1, "facecolor": "#FFFFBB", "edgecolor": "#000000", "edgewidth": 1.0, "zorder": 1}, {"data": "data02", "xindex": 5, "yindex": 3, "coordinates": "data", "pathcodes": ["M", "L", "L", "L", "Z"], "id": "el26681575014381360", "dasharray": "none", "alpha": 1, "facecolor": "#FFFFBB", "edgecolor": "#000000", "edgewidth": 1.0, "zorder": 1}, {"data": "data02", "xindex": 6, "yindex": 1, "coordinates": "data", "pathcodes": ["M", "L", "L", "L", "Z"], "id": "el26681575014381840", "dasharray": "none", "alpha": 1, "facecolor": "#FFFFBB", "edgecolor": "#000000", "edgewidth": 1.0, "zorder": 1}, {"data": "data02", "xindex": 6, "yindex": 2, "coordinates": "data", "pathcodes": ["M", "L", "L", "L", "Z"], "id": "el26681575014382320", "dasharray": "none", "alpha": 1, "facecolor": "#FFFFBB", "edgecolor": "#000000", "edgewidth": 1.0, "zorder": 1}, {"data": "data02", "xindex": 6, "yindex": 3, "coordinates": "data", "pathcodes": ["M", "L", "L", "L", "Z"], "id": "el26681575014382800", "dasharray": "none", "alpha": 1, "facecolor": "#FFFFBB", "edgecolor": "#000000", "edgewidth": 1.0, "zorder": 1}, {"data": "data02", "xindex": 7, "yindex": 1, "coordinates": "data", "pathcodes": ["M", "L", "L", "L", "Z"], "id": "el26681575014383280", "dasharray": "none", "alpha": 1, "facecolor": "#FFFFBB", "edgecolor": "#000000", "edgewidth": 1.0, "zorder": 1}, {"data": "data02", "xindex": 7, "yindex": 2, "coordinates": "data", "pathcodes": ["M", "L", "L", "L", "Z"], "id": "el26681575014383520", "dasharray": "none", "alpha": 1, "facecolor": "#FFFFBB", "edgecolor": "#000000", "edgewidth": 1.0, "zorder": 1}, {"data": "data02", "xindex": 7, "yindex": 3, "coordinates": "data", "pathcodes": ["M", "L", "L", "L", "Z"], "id": "el26681575050576560", "dasharray": "none", "alpha": 1, "facecolor": "#FFFFBB", "edgecolor": "#000000", "edgewidth": 1.0, "zorder": 1}], "markers": [], "texts": [{"text": "123", "position": [0.5, -0.05082457324717908], "coordinates": "axes", "h_anchor": "middle", "v_baseline": "hanging", "rotation": -0.0, "fontsize": 20.0, "color": "#000000", "alpha": 1, "zorder": 3, "id": "el26681574976087776"}, {"text": "103", "position": [-0.05782319483273888, 0.5], "coordinates": "axes", "h_anchor": "middle", "v_baseline": "auto", "rotation": -90.0, "fontsize": 20.0, "color": "#000000", "alpha": 1, "zorder": 3, "id": "el26681574976086912"}, {"text": "Sheet = 5*3 (24cm*34cm)___ Error = 3.39%", "position": [0.5, 1.0144661973189315], "coordinates": "axes", "h_anchor": "middle", "v_baseline": "auto", "rotation": -0.0, "fontsize": 14.0, "color": "#000000", "alpha": 1, "zorder": 3, "id": "el26681575014367296"}], "collections": [], "images": [], "sharex": [], "sharey": []}], "data": {"data01": [[0.0, 0.0], [123.0, 0.0], [123.0, 103.0], [0.0, 103.0]], "data02": [[0.0, 0.0, 34.0, 68.0, 24.0, 48.0, 72.0, 96.0], [24.0, 0.0, 34.0, 68.0, 48.0, 72.0, 96.0, 120.0], [24.0, 34.0, 68.0, 102.0, 48.0, 72.0, 96.0, 120.0], [0.0, 34.0, 68.0, 102.0, 24.0, 48.0, 72.0, 96.0]]}, "id": "el26681574973068752", "plugins": [{"type": "reset"}, {"type": "zoom", "button": true, "enabled": false}, {"type": "boxzoom", "button": true, "enabled": false}]});
+                 mpld3.draw_figure("fig_el422823026730818089411089649", {"width": 819.9999999999999, "height": 686.6666666666666, "axes": [{"bbox": [0.10323509485094853, 0.10525889967637547, 0.8784722222222222, 0.8389158576051778], "xlim": [0.0, 123.0], "ylim": [0.0, 103.0], "xdomain": [0.0, 123.0], "ydomain": [0.0, 103.0], "xscale": "linear", "yscale": "linear", "axes": [{"position": "bottom", "nticks": 8, "tickvalues": null, "tickformat_formatter": "", "tickformat": null, "scale": "linear", "fontsize": 10.0, "grid": {"gridOn": false}, "visible": true}, {"position": "left", "nticks": 7, "tickvalues": null, "tickformat_formatter": "", "tickformat": null, "scale": "linear", "fontsize": 10.0, "grid": {"gridOn": false}, "visible": true}], "axesbg": "#FFFFFF", "axesbgalpha": null, "zoomable": true, "id": "el42282302675598736", "lines": [], "paths": [{"data": "data01", "xindex": 0, "yindex": 1, "coordinates": "data", "pathcodes": ["M", "L", "L", "L", "Z"], "id": "el42282302675641360", "dasharray": "none", "alpha": 1, "facecolor": "#B26F31", "edgecolor": "#000000", "edgewidth": 1.0, "zorder": 1}, {"data": "data02", "xindex": 0, "yindex": 1, "coordinates": "data", "pathcodes": ["M", "L", "L", "L", "Z"], "id": "el42282302713007600", "dasharray": "none", "alpha": 1, "facecolor": "#FFFFBB", "edgecolor": "#000000", "edgewidth": 1.0, "zorder": 1}, {"data": "data02", "xindex": 0, "yindex": 2, "coordinates": "data", "pathcodes": ["M", "L", "L", "L", "Z"], "id": "el42282302713008080", "dasharray": "none", "alpha": 1, "facecolor": "#FFFFBB", "edgecolor": "#000000", "edgewidth": 1.0, "zorder": 1}, {"data": "data02", "xindex": 0, "yindex": 3, "coordinates": "data", "pathcodes": ["M", "L", "L", "L", "Z"], "id": "el42282302713008560", "dasharray": "none", "alpha": 1, "facecolor": "#FFFFBB", "edgecolor": "#000000", "edgewidth": 1.0, "zorder": 1}, {"data": "data02", "xindex": 4, "yindex": 1, "coordinates": "data", "pathcodes": ["M", "L", "L", "L", "Z"], "id": "el42282302713009040", "dasharray": "none", "alpha": 1, "facecolor": "#FFFFBB", "edgecolor": "#000000", "edgewidth": 1.0, "zorder": 1}, {"data": "data02", "xindex": 4, "yindex": 2, "coordinates": "data", "pathcodes": ["M", "L", "L", "L", "Z"], "id": "el42282302713009520", "dasharray": "none", "alpha": 1, "facecolor": "#FFFFBB", "edgecolor": "#000000", "edgewidth": 1.0, "zorder": 1}, {"data": "data02", "xindex": 4, "yindex": 3, "coordinates": "data", "pathcodes": ["M", "L", "L", "L", "Z"], "id": "el42282302713010000", "dasharray": "none", "alpha": 1, "facecolor": "#FFFFBB", "edgecolor": "#000000", "edgewidth": 1.0, "zorder": 1}, {"data": "data02", "xindex": 5, "yindex": 1, "coordinates": "data", "pathcodes": ["M", "L", "L", "L", "Z"], "id": "el42282302713010480", "dasharray": "none", "alpha": 1, "facecolor": "#FFFFBB", "edgecolor": "#000000", "edgewidth": 1.0, "zorder": 1}, {"data": "data02", "xindex": 5, "yindex": 2, "coordinates": "data", "pathcodes": ["M", "L", "L", "L", "Z"], "id": "el42282302713010960", "dasharray": "none", "alpha": 1, "facecolor": "#FFFFBB", "edgecolor": "#000000", "edgewidth": 1.0, "zorder": 1}, {"data": "data02", "xindex": 5, "yindex": 3, "coordinates": "data", "pathcodes": ["M", "L", "L", "L", "Z"], "id": "el42282302713011440", "dasharray": "none", "alpha": 1, "facecolor": "#FFFFBB", "edgecolor": "#000000", "edgewidth": 1.0, "zorder": 1}, {"data": "data02", "xindex": 6, "yindex": 1, "coordinates": "data", "pathcodes": ["M", "L", "L", "L", "Z"], "id": "el42282302713011920", "dasharray": "none", "alpha": 1, "facecolor": "#FFFFBB", "edgecolor": "#000000", "edgewidth": 1.0, "zorder": 1}, {"data": "data02", "xindex": 6, "yindex": 2, "coordinates": "data", "pathcodes": ["M", "L", "L", "L", "Z"], "id": "el42282302713012400", "dasharray": "none", "alpha": 1, "facecolor": "#FFFFBB", "edgecolor": "#000000", "edgewidth": 1.0, "zorder": 1}, {"data": "data02", "xindex": 6, "yindex": 3, "coordinates": "data", "pathcodes": ["M", "L", "L", "L", "Z"], "id": "el42282302713012880", "dasharray": "none", "alpha": 1, "facecolor": "#FFFFBB", "edgecolor": "#000000", "edgewidth": 1.0, "zorder": 1}, {"data": "data02", "xindex": 7, "yindex": 1, "coordinates": "data", "pathcodes": ["M", "L", "L", "L", "Z"], "id": "el42282302713013360", "dasharray": "none", "alpha": 1, "facecolor": "#FFFFBB", "edgecolor": "#000000", "edgewidth": 1.0, "zorder": 1}, {"data": "data02", "xindex": 7, "yindex": 2, "coordinates": "data", "pathcodes": ["M", "L", "L", "L", "Z"], "id": "el42282302713013840", "dasharray": "none", "alpha": 1, "facecolor": "#FFFFBB", "edgecolor": "#000000", "edgewidth": 1.0, "zorder": 1}, {"data": "data02", "xindex": 7, "yindex": 3, "coordinates": "data", "pathcodes": ["M", "L", "L", "L", "Z"], "id": "el42282302713014320", "dasharray": "none", "alpha": 1, "facecolor": "#FFFFBB", "edgecolor": "#000000", "edgewidth": 1.0, "zorder": 1}], "markers": [], "texts": [{"text": "123", "position": [0.5, -0.050824573247179095], "coordinates": "axes", "h_anchor": "middle", "v_baseline": "hanging", "rotation": -0.0, "fontsize": 20.0, "color": "#000000", "alpha": 1, "zorder": 3, "id": "el42282302675634016"}, {"text": "103", "position": [-0.05782319483273887, 0.5], "coordinates": "axes", "h_anchor": "middle", "v_baseline": "auto", "rotation": -90.0, "fontsize": 20.0, "color": "#000000", "alpha": 1, "zorder": 3, "id": "el42282302675635024"}, {"text": "#Sheet = 5*3 (21cm*31cm)___ #Error = 22.92%", "position": [0.5, 1.0144661973189315], "coordinates": "axes", "h_anchor": "middle", "v_baseline": "auto", "rotation": -0.0, "fontsize": 14.0, "color": "#000000", "alpha": 1, "zorder": 3, "id": "el42282302675642992"}], "collections": [], "images": [], "sharex": [], "sharey": []}], "data": {"data01": [[0.0, 0.0], [123.0, 0.0], [123.0, 103.0], [0.0, 103.0]], "data02": [[0.0, 0.0, 31.0, 62.0, 21.0, 42.0, 63.0, 84.0], [21.0, 0.0, 31.0, 62.0, 42.0, 63.0, 84.0, 105.0], [21.0, 31.0, 62.0, 93.0, 42.0, 63.0, 84.0, 105.0], [0.0, 31.0, 62.0, 93.0, 21.0, 42.0, 63.0, 84.0]]}, "id": "el42282302673081808", "plugins": [{"type": "reset"}, {"type": "zoom", "button": true, "enabled": false}, {"type": "boxzoom", "button": true, "enabled": false}]});
             })
          });
 }

diff --git a/eel/index.html b/eel/index.html
@@ -142,15 +142,15 @@
 					<div class="flex">
 						<div class="w-6/12 px-3 mb-6 grid gap-x-[1rem] gap-y-[0.5rem] grid-cols-3 items-center justify-center text-center">
 							<div></div>
-							<input id="ptn-margin-top" class="appearance-none w-30 bg-gray-200 text-gray-700 border border-gray-700 rounded py-3 px-4 leading-tight focus:outline-none focus:bg-white" type="text" placeholder="5cm" value="">
+							<input id="ptn-margin-top" class="appearance-none w-30 bg-gray-200 text-gray-700 border border-gray-700 rounded py-3 px-4 leading-tight focus:outline-none focus:bg-white" type="text" placeholder="5mm" value="">
 							<div></div>
-							<input id="ptn-margin-left" class="appearance-none w-30 bg-gray-200 text-gray-700 border border-gray-700 rounded py-3 px-4 leading-tight focus:outline-none focus:bg-white" type="text" placeholder="5cm" value="">
+							<input id="ptn-margin-left" class="appearance-none w-30 bg-gray-200 text-gray-700 border border-gray-700 rounded py-3 px-4 leading-tight focus:outline-none focus:bg-white" type="text" placeholder="5mm" value="">
 							<label class="uppercase tracking-wide text-gray-700 text-l font-bold">
 								Edge Clearance
 							</label>
-							<input id="ptn-margin-right" class="appearance-none w-30 bg-gray-200 text-gray-700 border border-gray-700 rounded py-3 px-4 leading-tight focus:outline-none focus:bg-white" type="text" placeholder="5cm" value="">
+							<input id="ptn-margin-right" class="appearance-none w-30 bg-gray-200 text-gray-700 border border-gray-700 rounded py-3 px-4 leading-tight focus:outline-none focus:bg-white" type="text" placeholder="5mm" value="">
 							<div></div>
-							<input id="ptn-margin-bot" class="appearance-none w-30 bg-gray-200 text-gray-700 border border-gray-700 rounded py-3 px-4 leading-tight focus:outline-none focus:bg-white" type="text" placeholder="5cm" value="">
+							<input id="ptn-margin-bot" class="appearance-none w-30 bg-gray-200 text-gray-700 border border-gray-700 rounded py-3 px-4 leading-tight focus:outline-none focus:bg-white" type="text" placeholder="5mm" value="">
 						</div>
 						<div class="w-6/12"></div>
 					</div>

diff --git a/eel/script.js b/eel/script.js
@@ -25,19 +25,19 @@ document.getElementById("ptn-panelize").onclick = function (message) {
 	if(_SheetHeight_ <= 0 || isNaN(_SheetHeight_))
 		alert("Sheet Height must be bigger than 0cm!\rChanged to 20cm");
 
-	let _SheetEdgeClearanceTop_ = parseFloat(document.getElementById("ptn-margin-top").value);
+	let _SheetEdgeClearanceTop_ = parseFloat(document.getElementById("ptn-margin-top").value)/10.0;
 	if(_SheetEdgeClearanceTop_ < 0 || isNaN(_SheetEdgeClearanceTop_))
 		alert("Sheet Edge Clearance Top must be bigger than 0cm!\rChange to 0cm");
 
-	let _SheetEdgeClearanceLeft_ = parseFloat(document.getElementById("ptn-margin-left").value);
+	let _SheetEdgeClearanceLeft_ = parseFloat(document.getElementById("ptn-margin-left").value)/10.0;
 	if(_SheetEdgeClearanceLeft_ < 0 || isNaN(_SheetEdgeClearanceLeft_))
 		alert("Sheet Edge Clearance Left must be bigger than 0cm!\rChange to 0cm");
 
-	let _SheetEdgeClearanceRight_ = parseFloat(document.getElementById("ptn-margin-right").value);
+	let _SheetEdgeClearanceRight_ = parseFloat(document.getElementById("ptn-margin-right").value)/10.0;
 	if(_SheetEdgeClearanceRight_ < 0 || isNaN(_SheetEdgeClearanceRight_))
 		alert("Sheet Edge Clearance Right must be bigger than 0cm!\rChange to 0cm");
 
-	let _SheetEdgeClearanceBottom_ = parseFloat(document.getElementById("ptn-margin-bot").value);
+	let _SheetEdgeClearanceBottom_ = parseFloat(document.getElementById("ptn-margin-bot").value)/10.0;
 	if(_SheetEdgeClearanceBottom_ < 0 || isNaN(_SheetEdgeClearanceBottom_))
 		alert("Sheet Edge Clearance Bottom must be bigger than 0cm!\rChange to 0cm");
 

diff --git a/Electron.py b/Electron.py
@@ -59,7 +59,7 @@ def plot_partitioner(BL,BH,SL,SH):
     plt.ylabel(big_sheet_height_cm,
               fontsize='20',
               color='black')
-    plt.title(f'Sheet = {n_rect_length}*{n_rect_height} ({rect_length}cm*{rect_height}cm)___ Error = {"{:.2f}".format(sheet_error)}%',
+    plt.title(f'#Sheet = {n_rect_length}*{n_rect_height} ({rect_length}cm*{rect_height}cm)___ #Error = {"{:.2f}".format(sheet_error)}%',
               fontsize='14',
               color='black')
 

diff --git a/README.md b/README.md
@@ -21,4 +21,4 @@ PCB &amp; PCBA Toolkit and calculator
 </ul>
 
 ## Simple Sheet Partitioner
-![Sheet Partitioner](./assets/vcs/v010/PCB_Sheet_Partitioner.png)
+![Sheet Partitioner](./assets/vcs/v011/PCB_Sheet_Partitioner.png)
